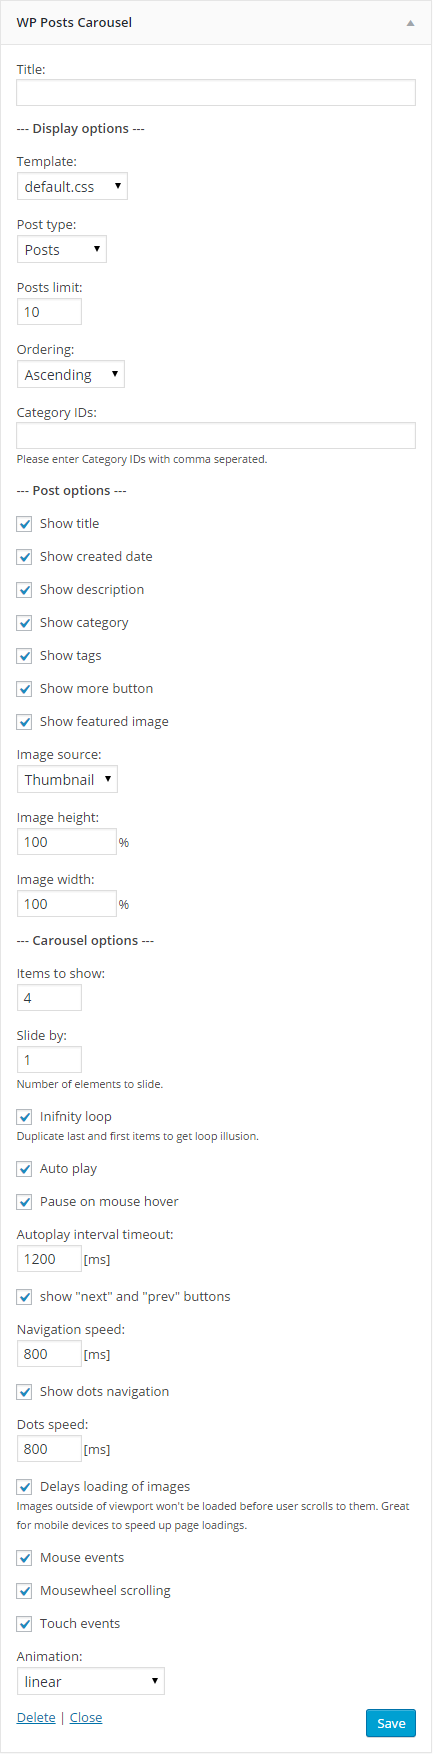
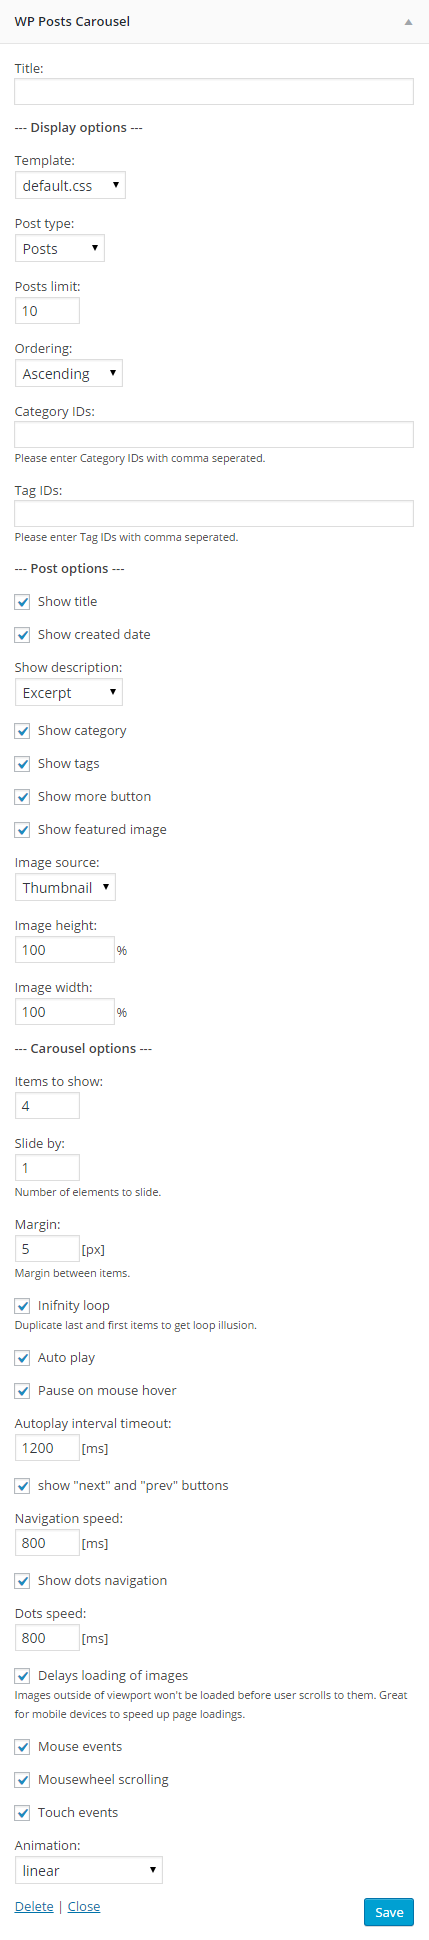
= 1.0.4 = * new way to display posts - by full content **Important** Before update read FAQ. * new option to set margin between items
git-svn-id: https://plugins.svn.wordpress.org/wp-posts-carousel/trunk@1165949 b8457f37-d9ea-0310-8a92-e5e31aec5664

diff --git a/templates/simple.css b/templates/simple.css
@@ -14,7 +14,7 @@
 /*
 * post's details
 */
-.simple-theme.wp-posts-carousel .woocommerce-products-flexcarousel-all-in-one-details { padding: 0 5px 10px 5px; } 
+.simple-theme.wp-posts-carousel .wp-posts-carousel-details { padding: 0 5px 10px 5px; } 
 .simple-theme.wp-posts-carousel .wp-posts-carousel-title { text-align: center; font-size: 18px; }
 .simple-theme.wp-posts-carousel .wp-posts-carousel-desc { font-size: 12px; color: #666; padding: 2%; margin-bottom: 2%; }
 .simple-theme.wp-posts-carousel .wp-posts-carousel-created-date { padding: 0; margin: 0;font-size: 12px; color: #666; }

diff --git a/carousel-generator.class.php b/carousel-generator.class.php
@@ -20,11 +20,12 @@ class WpPostsCarouselGenerator {
                             'post_type'               => 'post',
                             'ordering'                => 'asc',
                             'categories'              => '',
+                            'tags'                    => '',
                             'all_items'               => 10,
 
                             'show_title'              => 'true',
                             'show_created_date'       => 'true',
-                            'show_description'        => 'true',
+                            'show_description'        => 'excerpt',
                             'show_category'           => 'true',
                             'show_tags'               => 'false',
                             'show_more_button'        => 'true',    
@@ -42,6 +43,7 @@ class WpPostsCarouselGenerator {
                             'nav_speed'               => 800,  
                             'dots'                    => 'true',
                             'dots_speed'              => 800,
+                            'margin'                  => 5,
                             'lazy_load'               => 'false',
                             'mouse_drag'              => 'true',
                             'mouse_wheel'             => 'true',
@@ -62,14 +64,21 @@ class WpPostsCarouselGenerator {
                 $params = self::prepareSettings($atts);
 
                 /*
+                 * fix to previous versions
+                 */
+                if ( array_key_exists('show_description', $params) && in_array( $params['show_description'], array('true', 'false') ) ) {
+                        $params['show_description'] = $params['show_description'] == 'true' ? 'excerpt' : 'false';
+                }
+                
+                /*
                  * post type
                  */
                 $post_type = $params['post_type'] ? $params['post_type'] : 'post';
                 $post_type_category = $params['post_type'].'_category';  
-                $post_tag = $params['post_type'].'_tag';  
+                $post_type_tag = $params['post_type'].'_tag';  
                 
                 if ($post_type === 'post') {
-                    $post_type_category = 'category';
+                        $post_type_category = 'category';
                 }
                         
                 /*
@@ -117,13 +126,26 @@ class WpPostsCarouselGenerator {
                                    //'post__not_in' =>  array($post->ID) //exclude current post
                                    );
 
-                if ($params['categories'] != "") {
-                        $sql_array['tax_query'] = array(array('taxonomy'  =>  $post_type_category,
-                                                              'field'     =>  'id',
-                                                              'terms'     =>  explode(',', $params['categories']),
-                                                              'operator'  => 'IN'
-                                                             ));
+                $sql_i = 0;
+                if ($params['categories'] != "" || $params['tags'] != "") {
+                    $sql_array['tax_query'] = array('relation' => 'AND', array());
                 }
+                
+                if ($params['categories'] != "") {
+                        $sql_array['tax_query'][$sql_i++] = array('taxonomy'  =>  $post_type_category,
+                                                                  'field'     =>  'id',
+                                                                  'terms'     =>  explode(',', $params['categories']),
+                                                                  'operator'  => 'IN'
+                                                           );
+                }
+                
+                if ($params['tags'] != "") {
+                        $sql_array['tax_query'][$sql_i++] = array('taxonomy'  =>  $post_type_tag,
+                                                                  'field'     =>  'id',
+                                                                  'terms'     =>  explode(',', $params['tags']),
+                                                                  'operator'  => 'IN'
+                                                            );
+                }                
 
                 $sql_array['orderby'] = 'date';    
                 
@@ -132,7 +154,14 @@ class WpPostsCarouselGenerator {
                  */
 
                 $loop = new WP_Query($sql_array);
-
+                
+                /*
+                 * check if there are more then one item
+                 */
+                if(!$loop->post_count > 1) {
+                    return false;
+                }
+                
                 /*
                  * products loop
                  */
@@ -143,6 +172,7 @@ class WpPostsCarouselGenerator {
                         $title = '';
                         $featured_image = '';
                         $description = '';
+                        $tags = '';
                         $created_date = '';
                         $category = '';
                         $buttons = '';
@@ -183,11 +213,9 @@ class WpPostsCarouselGenerator {
                         /*
                          * show tags
                          */                        
-                        if ($params['show_tags'] == 'true' && $post_tag) {
-                                $categories = get_the_terms($post->ID, $post_type_category);                                
-                                
+                        if ($params['show_tags'] == 'true') {        
                                 $tags = '<p class="wp-posts-carousel-tags">';
-                                        $tags .= get_the_term_list(get_the_ID(), $post_tag, '', ' ', '' );
+                                        $tags .= get_the_term_list(get_the_ID(), $post_type_tag, '', ' ', '' );
                                 $tags .= '</p>';                                   
                         }                          
                         
@@ -208,19 +236,23 @@ class WpPostsCarouselGenerator {
                                 $featured_image .= '</div>';
                         }
                         
-                        /*
-                         * show description
-                         */
-                        if ($params['show_description'] === 'true') {
-                                $description = '<div class="wp-posts-carousel-desc">'.$post->post_excerpt.'</div>';
-                        }      
 
+                        /*
+                         * show excerpt or full content
+                         */
+                        if ($params['show_description'] === 'excerpt') {
+                                $description = '<div class="wp-posts-carousel-desc">'. $post->post_excerpt .'</div>';
+                        } else if ($params['show_description'] === 'content') {
+                                $description = '<div class="wp-posts-carousel-desc">'. get_the_content() .'</div>';
+                        } 
+                        
+                        
                         /*
                          * show button
                          */
                         if ($params['show_more_button'] === 'true') {     
                                 $buttons = '<p class="wp-posts-carousel-buttons">';
-                                        $buttons .= '<a href="'. $post_url .'" class="wp-posts-carousel-more-button button" title="'.__('Read more', 'wp-posts-carousel').' '.$post->post_title.'">'.__('read more', 'wp-posts-carousel').'</a>';
+                                        $buttons .= '<a href="'. $post_url .'" class="wp-posts-carousel-more-button button" title="'. __('Read more', 'wp-posts-carousel') .' '.$post->post_title.'">'. __('read more', 'wp-posts-carousel') .'</a>';
                                 $buttons .= '<p>';
                         }
             
@@ -228,7 +260,7 @@ class WpPostsCarouselGenerator {
                         /*
                          * list products
                          */
-                        $out .= '<div class="wp-posts-carousel-slide slides-'.$params['items_to_show'].'">';
+                        $out .= '<div class="wp-posts-carousel-slide slides-'. $params['items_to_show'] .'">';
                                 $out .= '<div class="wp-posts-carousel-container">';
                                         
                                         $out .= $featured_image;
@@ -284,7 +316,7 @@ class WpPostsCarouselGenerator {
                             autoplayHoverPause: '. $params['stop_on_hover'] .',
                             autoplayTimeout: '. $params['auto_play_timeout'] .',
                             autoplaySpeed:  '. $params['auto_play_timeout'] .',
-                            margin: 5,
+                            margin: '. $params['margin'] .',
                             stagePadding: 0,
                             freeDrag: false,      
                             mouseDrag: '. $params['mouse_drag'] .',
@@ -319,7 +351,6 @@ class WpPostsCarouselGenerator {
                 $checkboxes = array(
                                     'show_title'              => 'true',
                                     'show_created_date'       => 'true',
-                                    'show_description'        => 'true',
                                     'show_category'           => 'true',
                                     'show_tags'               => 'false',
                                     'show_more_button'        => 'true',

diff --git a/carousel-widget.class.php b/carousel-widget.class.php
@@ -44,7 +44,7 @@ function form($instance) {
         /*
          * load defaults if new
          */
-        if(empty($instance)) {
+        if ( empty($instance) ) {
                 $instance = WpPostsCarouselGenerator::getDefaults();
         }      
 
@@ -108,7 +108,12 @@ function form($instance) {
         <br />
         <small><?php _e("Please enter Category IDs with comma seperated.", "wp-posts-carousel") ?></small>
     </p> 
-    
+    <p>
+        <label for="<?php echo $this->get_field_id("tags"); ?>"><?php _e("Tag IDs", "wp-posts-carousel"); ?>:</label>
+        <input class="widefat" id="<?php echo $this->get_field_id("tags"); ?>" name="<?php echo $this->get_field_name("tags"); ?>" type="text" value="<?php echo esc_attr($instance["tags"]); ?>" />
+        <br />
+        <small><?php _e("Please enter Tag IDs with comma seperated.", "wp-posts-carousel") ?></small>
+    </p>     
     
     <p>
         <strong>--- <?php _e("Post options", "wp-posts-carousel") ?> ---</strong>
@@ -120,11 +125,22 @@ function form($instance) {
     <p>
         <input type="checkbox" class="checkbox" id="<?php echo $this->get_field_id("show_created_date"); ?>" name="<?php echo $this->get_field_name("show_created_date"); ?>" <?php array_key_exists('show_created_date', $instance) ? checked( (bool) $instance["show_created_date"], true ): null; ?> value="1" />
         <label for="<?php echo $this->get_field_id("show_created_date"); ?>"><?php _e("Show created date", "wp-posts-carousel"); ?></label>
-    </p>    
-    <p>
-        <input type="checkbox" class="checkbox" id="<?php echo $this->get_field_id("show_description"); ?>" name="<?php echo $this->get_field_name("show_description"); ?>" <?php array_key_exists('show_description', $instance) ? checked( (bool) $instance["show_description"], true ): null; ?> value="1" />
-        <label for="<?php echo $this->get_field_id("show_description"); ?>"><?php _e("Show description", "wp-posts-carousel"); ?></label>
     </p> 
+    <p>
+        <label for="<?php echo $this->get_field_id("show_description"); ?>"><?php _e("Show description", "wp-posts-carousel"); ?>:</label>
+        <br />
+        <select name="<?php echo $this->get_field_name("show_description"); ?>" id="<?php echo $this->get_field_id("show_description"); ?>" class="select">
+          <?php            
+            $description_list = array("false" => __("No", "wp-posts-carousel"),
+                                      "excerpt" => __("Excerpt", "wp-posts-carousel"),
+                                      "content" => __("Full content", "wp-posts-carousel")
+                                     );
+            foreach($description_list as $key => $list) {
+                echo "<option value=\"" .$key ."\" ". (esc_attr($instance["show_description"]) == $key ? 'selected="selected"' : null) .">". $list ."</option>";
+            }
+          ?>
+        </select>
+    </p>  
     <p>
         <input type="checkbox" class="checkbox" id="<?php echo $this->get_field_id("show_category"); ?>" name="<?php echo $this->get_field_name("show_category"); ?>" <?php array_key_exists('show_category', $instance) ? checked( (bool) $instance["show_category"], true ): null; ?> value="1" />
         <label for="<?php echo $this->get_field_id("show_category"); ?>"><?php _e("Show category", "wp-posts-carousel"); ?></label>
@@ -183,7 +199,12 @@ function form($instance) {
         <input size="5" id="<?php echo $this->get_field_id("slide_by"); ?>" name="<?php echo $this->get_field_name("slide_by"); ?>" type="text" value="<?php echo esc_attr($instance["slide_by"]); ?>" />
         <br />
         <small><?php echo _e("Number of elements to slide.", "wp-posts-carousel") ?></small>
-    </p>     
+    </p>  
+    <p>
+        <label for="<?php echo $this->get_field_id("margin"); ?>"><?php _e("Margin", "wp-posts-carousel"); ?>:</label>
+        <br />
+        <input size="5" id="<?php echo $this->get_field_id("margin"); ?>" name="<?php echo $this->get_field_name("margin"); ?>" type="text" value="<?php echo esc_attr($instance["margin"]); ?>" />[px]
+    </p>      
     <p>
         <input type="checkbox" class="checkbox" id="<?php echo $this->get_field_id("loop"); ?>" name="<?php echo $this->get_field_name("loop"); ?>" <?php array_key_exists('loop', $instance) ? checked( (bool) $instance["loop"], true ): null; ?> value="1" />
         <label for="<?php echo $this->get_field_id("loop"); ?>"><?php _e("Inifnity loop", "wp-posts-carousel"); ?></label>

diff --git a/shortcode-generator.php b/shortcode-generator.php
@@ -91,7 +91,14 @@ function insert_shortcode() {
                 <small><?php _e('Please enter Category IDs with comma seperated.', 'wp-posts-carousel') ?></small>
             </td>
         </tr> 
-
+        <tr>
+            <td align="left"><?php _e('Tag IDs', 'wp-posts-carousel'); ?>:</td>
+            <td>
+                <input type="text" name="tags" id="tags" value="" size="30">
+                <br />
+                <small><?php _e('Please enter Tag IDs with comma seperated.', 'wp-posts-carousel') ?></small>
+            </td>
+        </tr> 
 
         <tr>
             <td colspan="2" align="left">
@@ -112,11 +119,15 @@ function insert_shortcode() {
             </td>
         </tr>
         <tr>
-            <td><?php _e('Show description', 'wp-posts-carousel'); ?>:</td>
+            <td align="left"><?php _e('Show description', 'wp-posts-carousel'); ?>:</td>
             <td>
-                <input type="checkbox" value="1" name="show_description" id="show_description" checked="checked">
+                <select name="show_description" id="show_description" class="select">
+                    <option value="false"><?php _e("No", 'wp-posts-carousel') ?></option>
+                    <option value="excerpt"><?php _e("Excerpt", 'wp-posts-carousel') ?></option>
+                    <option value="content"><?php _e("Full content", 'wp-posts-carousel') ?></option>              
+                </select>	
             </td>
-        </tr>  
+        </tr>   
         <tr>
             <td><?php _e('Show category', 'wp-posts-carousel'); ?>:</td>
             <td>
@@ -184,6 +195,14 @@ function insert_shortcode() {
                 <input type="text" name="slide_by" id="slide_by" value="1" size="5">
                 <br />
                 <small><?php echo _e("Number of elements to slide.", "wp-posts-carousel") ?></small>                
+            </td>
+        </tr> 
+        <tr>
+            <td align="left"><?php _e('Margin', 'wp-posts-carousel'); ?>:</td>
+            <td>
+                <input type="text" name="margin" id="margin" value="5" size="5">[px]
+                <br />
+                <small><?php echo _e("Margin between items.", "wp-posts-carousel") ?></small>                  
             </td>
         </tr>         
         <tr>

diff --git a/wp-posts-carousel.php b/wp-posts-carousel.php
@@ -3,7 +3,7 @@
 Plugin Name: Wp Posts Carousel
 Plugin URI: http://www.teastudio.pl/produkt/wp-posts-carousel/
 Description: WP Posts Carousel is a widget to show posts in carousel by <a href="http://www.owlcarousel.owlgraphic.com/" target="_blank" title="OWL Carousel homepage">OWL Carousel</a>.
-Version: 1.0.2
+Version: 1.0.4
 Author: Marcin Gierada
 Author URI: http://www.teastudio.pl/
 Author Email: m.gierada@teastudio.pl
@@ -34,7 +34,7 @@ function wp_posts_carousel_init() {
  */
 $WP_Posts_Carousel = new WP_Posts_Carousel();
 class WP_Posts_Carousel {
-        const VERSION = '1.0.2';
+        const VERSION = '1.0.4';
         private $plugin_name = 'WP Posts Carousel';
         private $plugin_slug = 'wp-posts-carousel';
         private $options = array();
@@ -216,7 +216,7 @@ function settings_page() {
     
                                         <hr />
                                         <p>
-                                                <a href="http://www.teastudio.pl" target="_blank" title="www.teastudio.pl"><img src="<?php echo plugins_url('/images/teastudio-logo.png' , __FILE__ ) ?>" title="www.teastudio.pl" alt="www.teastudio.pl" /></a>
+                                                <a href="http://www.teastudio.pl" target="_blank" title="Design and web development - www.teastudio.pl"><img src="<?php echo plugins_url('/images/teastudio-logo.png' , __FILE__ ) ?>" title="www.teastudio.pl" alt="www.teastudio.pl" /></a>
                                         </p>
                                 </div>
                         </div>
